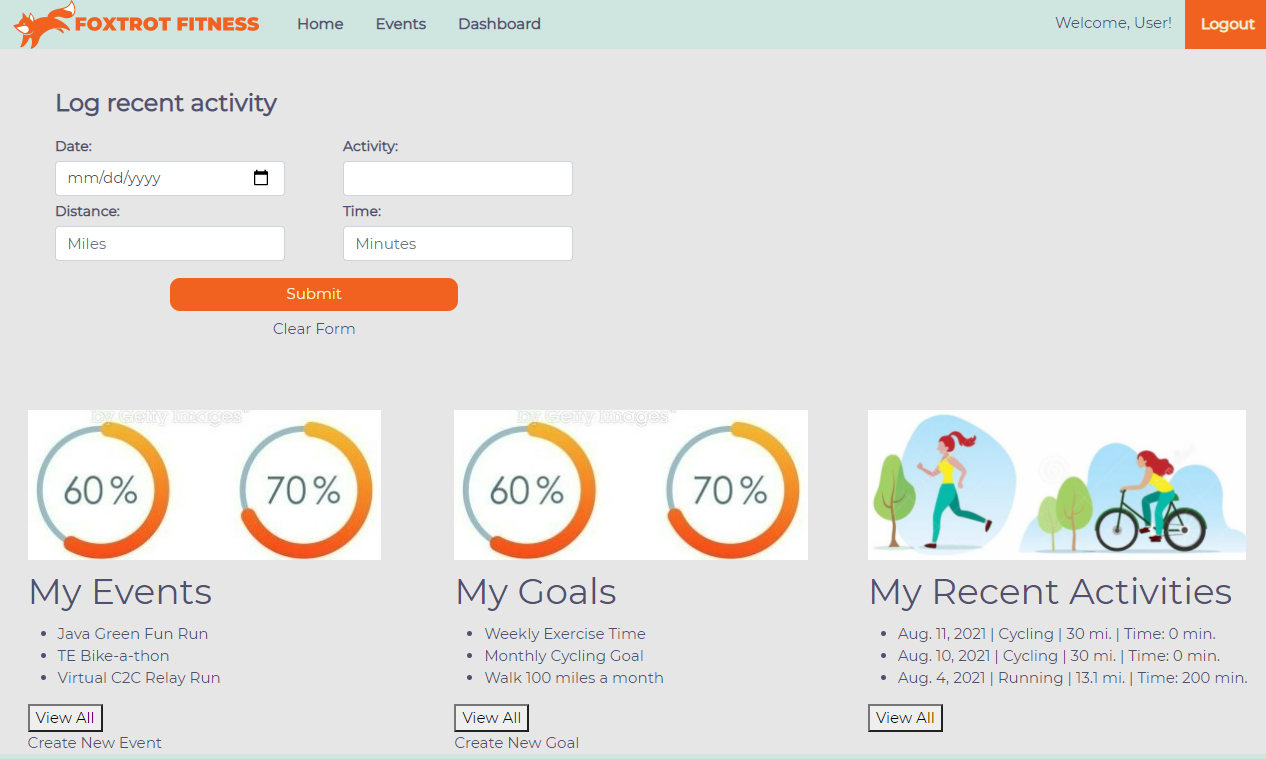
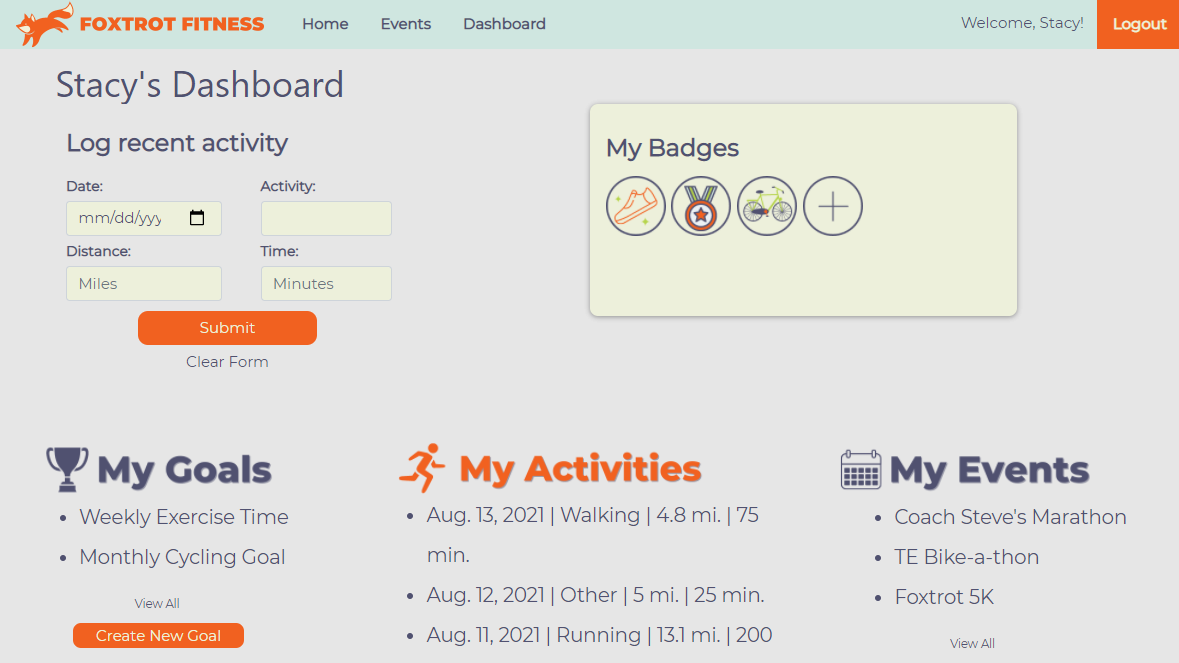
punch list items

diff --git a/vue/src/components/GroupProgress.vue b/vue/src/components/GroupProgress.vue
@@ -49,17 +49,32 @@ export default {
       getProgress() {
           let percent = 0;
           percent = ((this.distanceOfAllUsers / this.event.totalActivityGoal)*100);
-          return percent + "%";
+            if(percent >= 100) {
+            return 100 + "%";
+          } else {
+            return percent + "%";
+          }
+        
+
       },
       progressLabel() {
           let progressLabel = 0;
           progressLabel = ((this.distanceOfAllUsers / this.event.totalActivityGoal)*100);
-          return parseFloat(progressLabel).toFixed(1);
+            if(progressLabel >= 100) {
+            return 100;
+          } else {
+            return parseFloat(progressLabel).toFixed(1);
+          }
+         
       },
       remainingDistance() {
         let remainingDistance = 0;
         remainingDistance = (this.event.totalActivityGoal - this.distanceOfAllUsers);
-        return remainingDistance.toFixed(1).toLocaleString();
+          if(remainingDistance <=0) {
+            return "Congratulations - the goal has been met!";
+          } else {
+        return remainingDistance.toLocaleString();
+      }
       }
     },
 

diff --git a/vue/src/components/MyGoalHistory.vue b/vue/src/components/MyGoalHistory.vue
@@ -7,7 +7,6 @@
             <div class="col col-2">Activity Type(s)</div>
             <div class="col col-3">Activity Goal</div>
             <div class="col col-4">Date Range</div>
-            <div class="col col-5">Progress</div>
           </li>
           <li class="table-row" v-for="goal in goals" v-bind:key="goal.goalId">
             <div class="col col-1" data-label="Goal">{{goal.goalName}}</div>
@@ -16,7 +15,6 @@
             </div>
             <div class="col col-3" data-label="Activity Goal">{{goal.activityGoal}} {{goal.activityUnits}}</div>
             <div class="col col-4" data-label="Date Range">{{goal.startDate | formatDate}} - {{goal.endDate | formatDate}}</div>
-            <div class="col col-5" data-label="Image"></div>
           </li>
         </ul>  
   </div>
@@ -99,21 +97,18 @@ h2 {
     
   }
   .col-1 {
-    flex-basis: 20%;
+    flex-basis: 27%;
   }
   .col-2 {
-    flex-basis: 15%;
+    flex-basis: 22.5%;
   }
   .col-3 {
-    flex-basis: 15%;
+    flex-basis: 22.5%;
   }
   .col-4 {
-    flex-basis: 25%;
+    flex-basis: 28%;
   }
 
-  .col-5 {
-    flex-basis: 25%;
-  }
   
   
 

diff --git a/vue/src/components/BadgeSection.vue b/vue/src/components/BadgeSection.vue
@@ -1,9 +1,10 @@
 <template>
   <div class="badgesection">
       <h4 id="badgeheader">My Badges</h4>
-        <!-- <img class="badgeimage" id="b1" src="../assets/award.png"> -->
-        <img class="badgeimage" id="b2" src="../assets/exercise.png">
-        <!-- <img class="badgeimage" id="b3" src="../assets/heart.jpg"> -->
+        <img class="badgeimage" id="b1" src="../assets/medal.png">
+        <img class="badgeimage" id="b2" src="../assets/shoe.png">
+        <img class="badgeimage" id="b3" src="../assets/bike.png">
+        <img class="badgeimage" id="b4" src="../assets/Plus.png">
   </div>
 </template>
 
@@ -25,8 +26,8 @@ name: 'badge-section'
     box-shadow: 0 1px 5px 0 rgba(0, 0, 0, 0.2), 0 1px 5px 0 rgba(0, 0, 0, 0.19);
     background-color: #edf0db;
     grid-template-columns: 1fr 1fr 1fr 1fr 1fr 1fr;
-    grid-template-areas: "header header header header . ."
-                        "b2 b1 b3 . . ."
+    grid-template-areas: "header header header header header header"
+                        "b2 b1 b3 b4 . ."
                         ". . . . . ."
     
 }

diff --git a/vue/src/components/AboutFoxtrot.vue b/vue/src/components/AboutFoxtrot.vue
@@ -9,10 +9,10 @@
     <button id="actionbutton" v-on:click="$router.push({name: 'register'})">Take the first step</button>
 
 <div>
-  <carousel-3d :width="500" :height="375" :autoplay="true" :autoplay-timeout="5000">
+  <carousel-3d :width="400" :height="280" :autoplay="true" :autoplay-timeout="5000">
     <slide :index="0">
         <figure>
-        <img :width="500" id="img1" src="..\assets\MyDashboard.png">
+        <img :width="400" id="img1" src="..\assets\MyDashboard.png">
         <figcaption>
           The sky is the limit only for those who aren't afraid to fly!
                     The sky is the limit only for those who aren't afraid to fly!
@@ -48,14 +48,15 @@ figure {
 
 figcaption {
   position: absolute;
-  background-color: rgba(0, 0, 0, 0.5);
-  color: #fff;
+  background-color: #505170;
+  color: #edf0db;
   bottom: 0;
   position: absolute;
   bottom: 0;
   padding: 15px;
   font-size: 12px;
   min-width: 100%;
+  height: 55px;
   box-sizing: border-box;
 }
 

diff --git a/vue/src/components/IndividualProgress.vue b/vue/src/components/IndividualProgress.vue
@@ -18,6 +18,7 @@
                         <div class="progress-value">{{progressLabel.toLocaleString()}}%</div>
                     </div>
                 </div>
+                <p>Remaining Distance: {{remainingDistance}}</p>
               
                     
             </div>
@@ -68,7 +69,11 @@ export default {
       remainingDistance() {
         let remainingDistance = 0;
         remainingDistance = ((this.event.userActivityGoal - this.totalDistanceOfUser));
-        return remainingDistance.toFixed(1).toLocaleString();
+            if(remainingDistance <=0) {
+            return "Congratulations - your goal has been met!";
+          } else {
+        return remainingDistance.toLocaleString();
+      }
       }
     },
     created(){

diff --git a/vue/src/components/EventListing.vue b/vue/src/components/EventListing.vue
@@ -103,14 +103,14 @@ body {
 .container {
 
   margin-left: 5%;
-  margin-right: 5%;
+  margin-right: 3%;
 
 }
 .event-filters {
   display: grid;
   grid-template-columns: 1fr 1fr 1fr 1fr;
   column-gap: 2rem;
-  grid-template-areas: "namefilter activityfilter  . pastevents";
+  grid-template-areas: "namefilter activityfilter . pastevents";
   margin: 0% 0% 1% 3%;
  
 }
@@ -139,10 +139,12 @@ body {
   color: #505170;
   margin-left: 2%;
   margin-top: 2%;
+  margin-right: 0%;
   text-align: right;
   border: none; 
   background-color: #e6e6e6;
   grid-area: pastevents;
+  font-size: 14px;
 
 }
 

diff --git a/vue/src/views/EventSearch.vue b/vue/src/views/EventSearch.vue
@@ -37,6 +37,7 @@ export default {
 .list-toggle {
   font-family: 'Montserrat', sans-serif;
   color: #505170;
+  font-size: 14px;
   margin-left: 2%;
   margin-top: 2%;
   text-align: right;

diff --git a/vue/src/components/EventCardDisplay.vue b/vue/src/components/EventCardDisplay.vue
@@ -124,6 +124,7 @@ export default {
   border: none; 
   background-color: #e6e6e6;
   grid-area: pastevents;
+  font-size: 14px;
 
 }
 </style>
